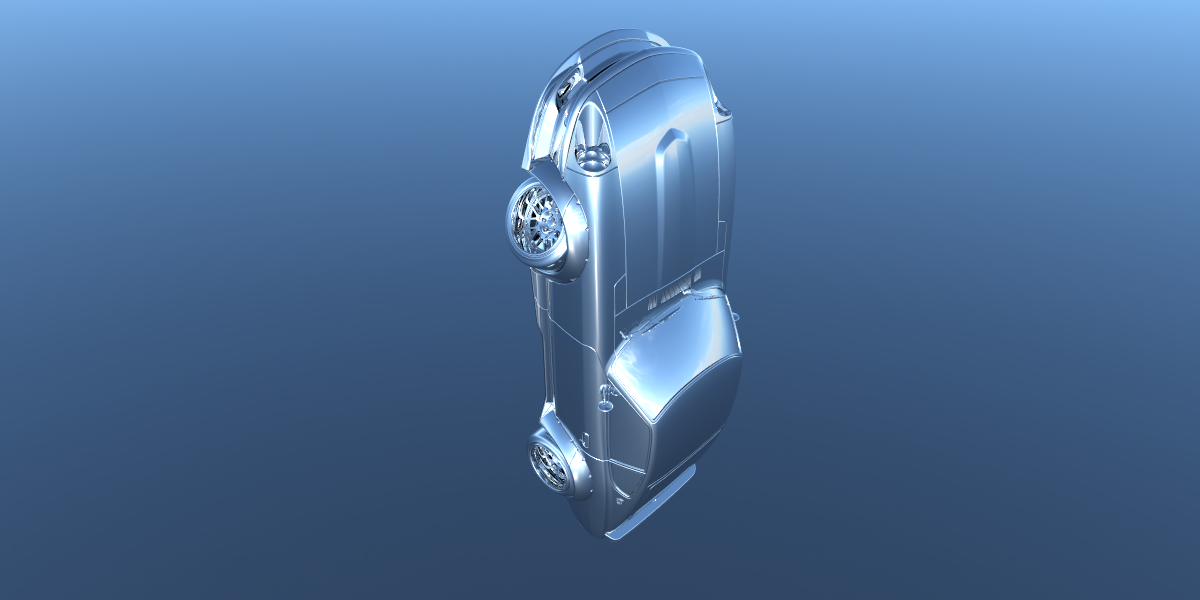
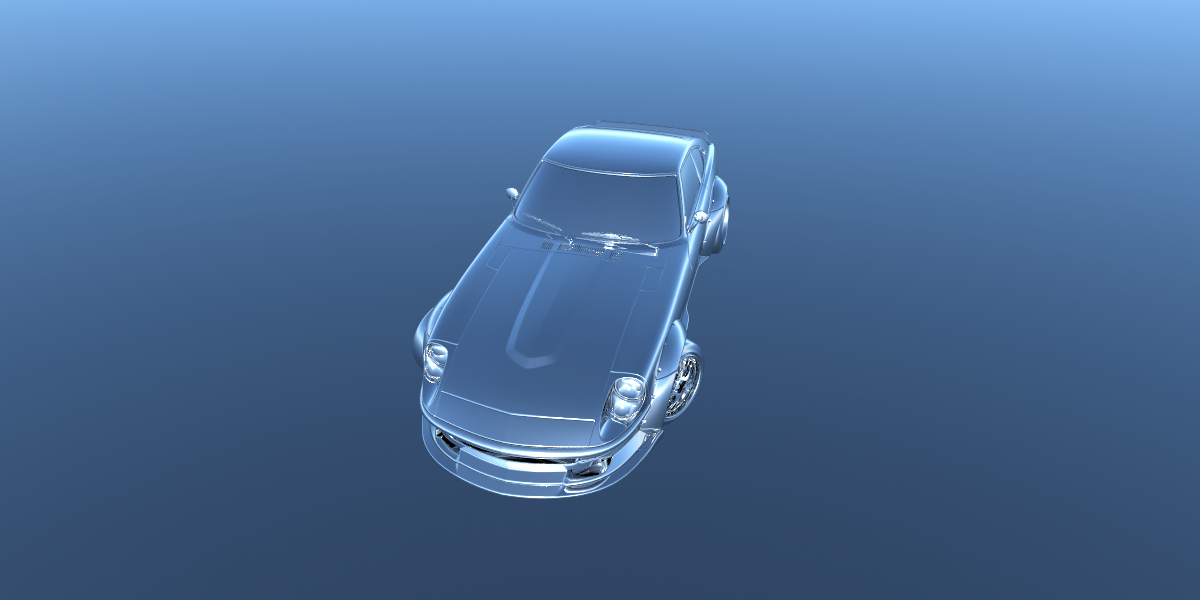
feature: Implement mesh parsing and evaluation in the parser

Changed region(s): [[0.3392, 0.03, 0.6167, 0.9]]

diff --git a/src/tracer/parser/ast.cpp b/src/tracer/parser/ast.cpp
@@ -121,8 +121,15 @@ OceanNode::OceanNode(std::shared_ptr<ASTNode> n, std::shared_ptr<ASTNode> l,
                      std::shared_ptr<ASTNode> a, std::shared_ptr<ASTNode> mat,
                      std::shared_ptr<ASTNode> lam,
                      std::shared_ptr<ASTNode> height)
-    : n_expr(n), l_expr(l), speed_expr(wind_speed), dir_expr(wind_dir),
-      a_expr(a), mat_expr(mat), lambda_expr(lam), height_expr(height) {}
+    : n_expr(std::move(n)), l_expr(std::move(l)),
+      speed_expr(std::move(wind_speed)), dir_expr(std::move(wind_dir)),
+      a_expr(std::move(a)), mat_expr(std::move(mat)),
+      lambda_expr(std::move(lam)), height_expr(std::move(height)) {}
+
+MeshNode::MeshNode(std::shared_ptr<ASTNode> mode_path,
+                   std::shared_ptr<ASTNode> pos, std::shared_ptr<ASTNode> rot)
+    : model_path_expr(std::move(mode_path)), position_expr(std::move(pos)),
+      rot_expr(std::move(rot)) {}
 
 TranslateNode::TranslateNode(std::shared_ptr<ASTNode> object,
                              std::shared_ptr<ASTNode> offset)
@@ -165,7 +172,7 @@ BasicType PipeNode::evaluate(std::shared_ptr<Environment> env) {
     return func.t_lambda.body->evaluate(temp_env);
   }
   throw std::runtime_error(
-      "Left side of '|' must be a lambda expression or a .. expression.");
+      "Left side of '|' must be a lambda expression or a `..` expression.");
 }
 
 BasicType ListNode::evaluate(std::shared_ptr<Environment> env) {
@@ -399,6 +406,7 @@ BasicType BoxNode::evaluate(std::shared_ptr<Environment> env) {
   Vec3 dist = bmax.t_vector3 - bmin.t_vector3;
   std::shared_ptr<hittable> box =
       std::make_shared<geometry::Box>(Vec3(0, 0, 0), dist, mat.t_material);
+  box = std::make_shared<transform::Translate>(box, bmin.t_vector3);
   if (rot_expr) {
     BasicType rot = rot_expr->evaluate(env);
     float x = rot.t_vector3.x();
@@ -411,7 +419,6 @@ BasicType BoxNode::evaluate(std::shared_ptr<Environment> env) {
     if (z != 0.f)
       box = std::make_shared<transform::RotateZ>(box, z);
   }
-  box = std::make_shared<transform::Translate>(box, bmin.t_vector3);
   return BasicType(box);
 }
 
@@ -430,6 +437,7 @@ BasicType HeartNode::evaluate(std::shared_ptr<Environment> env) {
   BasicType mat = material_expr->evaluate(env);
   std::shared_ptr<hittable> heart = std::make_shared<geometry::Heart>(
       Vec3(0, 0, 0), rho.t_float, mat.t_material);
+  heart = std::make_shared<transform::Translate>(heart, center.t_vector3);
   if (rot_expr) {
     BasicType rot = rot_expr->evaluate(env);
     float x = rot.t_vector3.x();
@@ -442,7 +450,6 @@ BasicType HeartNode::evaluate(std::shared_ptr<Environment> env) {
     if (z != 0.f)
       heart = std::make_shared<transform::RotateZ>(heart, z);
   }
-  heart = std::make_shared<transform::Translate>(heart, center.t_vector3);
   return BasicType(heart);
 }
 
@@ -465,6 +472,27 @@ BasicType OceanNode::evaluate(std::shared_ptr<Environment> env) {
   auto simulator = std::make_unique<physics::FFTOcean>(params);
   return BasicType(std::make_shared<geometry::Ocean>(
       &*simulator, mat.t_material, lambda.t_float, height.t_float));
+}
+
+BasicType MeshNode::evaluate(std::shared_ptr<Environment> env) {
+  BasicType model_path = model_path_expr->evaluate(env);
+  BasicType position = position_expr->evaluate(env);
+  obj_parser::Object obj(model_path.t_string);
+  std::shared_ptr<hittable> mesh = obj.take();
+  mesh = std::make_shared<transform::Translate>(mesh, position.t_vector3);
+  if (rot_expr) {
+    BasicType rot = rot_expr->evaluate(env);
+    float x = rot.t_vector3.x();
+    float y = rot.t_vector3.y();
+    float z = rot.t_vector3.z();
+    if (x != 0.f)
+      mesh = std::make_shared<transform::RotateX>(mesh, x);
+    if (y != 0.f)
+      mesh = std::make_shared<transform::RotateY>(mesh, y);
+    if (z != 0.f)
+      mesh = std::make_shared<transform::RotateZ>(mesh, z);
+  }
+  return BasicType(mesh);
 }
 
 BasicType TranslateNode::evaluate(std::shared_ptr<Environment> env) {

diff --git a/src/tracer/parser/parser.cpp b/src/tracer/parser/parser.cpp
@@ -159,6 +159,11 @@ std::shared_ptr<ASTNode> Parser::parse_list() {
   }
 }
 
+std::shared_ptr<ASTNode> Parser::parse_for_expr() {
+  // TODO
+  return nullptr;
+}
+
 std::shared_ptr<ASTNode> Parser::parse_paren_list() {
   std::vector<std::shared_ptr<ASTNode>> list;
   while (peek_token().type != TokenType::RightParen) {
@@ -318,6 +323,21 @@ std::shared_ptr<ASTNode> Parser::parse_ocean() {
   return ocean;
 }
 
+std::shared_ptr<ASTNode> Parser::parse_mesh() {
+  expect_token({TokenType::LeftParen});
+  std::shared_ptr<ASTNode> model_path = parse_expression(Precedence::NONE);
+  std::shared_ptr<ASTNode> position = parse_expression(Precedence::NONE);
+  std::shared_ptr<MeshNode> mesh = nullptr;
+  if (peek_token().type != TokenType::RightParen) {
+    std::shared_ptr<ASTNode> rot = parse_expression(Precedence::NONE);
+    mesh = std::make_shared<MeshNode>(model_path, position, rot);
+  } else {
+    mesh = std::make_shared<MeshNode>(model_path, position, nullptr);
+  }
+  expect_token({TokenType::RightParen});
+  return mesh;
+}
+
 std::shared_ptr<ASTNode> Parser::parse_translate() {
   expect_token({TokenType::LeftParen});
   std::shared_ptr<ASTNode> object = parse_expression(Precedence::NONE);
@@ -435,6 +455,11 @@ std::shared_ptr<ASTNode> Parser::parse_expression(const Precedence &prec) {
     break;
   }
 
+  case TokenType::For: {
+    left = parse_for_expr();
+    break;
+  }
+
   case TokenType::Pair: {
     left = parse_pair();
     break;
@@ -512,6 +537,11 @@ std::shared_ptr<ASTNode> Parser::parse_expression(const Precedence &prec) {
 
   case TokenType::OceanType: {
     left = parse_ocean();
+    break;
+  }
+
+  case TokenType::MeshType: {
+    left = parse_mesh();
     break;
   }
 

diff --git a/tests/test_obj_parser.cpp b/tests/test_obj_parser.cpp
@@ -1,4 +1,6 @@
 #include "tracer/tracer.h"
+#include <chrono>
+#include <iostream>
 
 using namespace tracer;
 
@@ -16,13 +18,28 @@ int main() {
 
   std::shared_ptr<Background> background = std::make_shared<ImageBackground>(
       "../textures/autumn_field_puresky_4k.hdr");
-  obj_parser::Object obj("../models/free-datsun-280z/source/Datsun_280Z.obj");
+  obj_parser::Object obj("../models/free-datsun-280z/Datsun_280Z.obj");
 
-  std::vector<std::shared_ptr<geometry::Mesh>> meshes = obj.take();
-  for (const auto &mesh : meshes) {
-    mesh->finalize();
-    world.add(mesh);
-  }
+  std::shared_ptr<geometry::Mesh> mesh = obj.take();
+  size_t vn = mesh->indices.size();
+  std::cout << "模型顶点个数: " << vn << ", 面数量: " << vn / 3 << std::endl;
+  std::cout << "[Build] 开始构建 BVH ..." << std::endl;
+  auto start_time = std::chrono::high_resolution_clock::now();
+
+  mesh->finalize();
+  auto car = std::make_shared<transform::RotateZ>(
+      std::make_shared<transform::RotateX>(
+          std::make_shared<transform::Translate>(mesh, Vec3(0.f, 0.f, 0.f)),
+          -90.f),
+      -120.f);
+  world.add(car);
+
+  auto end_time = std::chrono::high_resolution_clock::now();
+  std::cout << "[Build] BVH 构建完毕！用时: "
+            << std::chrono::duration_cast<std::chrono::seconds>(end_time -
+                                                                start_time)
+                   .count()
+            << " s" << std::endl;
 
   auto sun_mat =
       std::make_shared<material::DiffuseLight>(Vec3(15.0f, 15.0f, 15.0f));

diff --git a/include/tracer/parser/ast.h b/include/tracer/parser/ast.h
@@ -12,6 +12,7 @@
 #include "tracer/material/metal.h"
 #include "tracer/material/water.h"
 #include "tracer/math/vec3.h"
+#include "tracer/obj_parser/factory.h"
 #include "tracer/texture/image_texture.h"
 #include "tracer/transform/rotate.h"
 #include "tracer/transform/translate.h"
@@ -19,6 +20,7 @@
 #include <string>
 #include <unordered_map>
 #include <vector>
+
 
 namespace tracer {
 namespace parser {
@@ -415,6 +417,17 @@ public:
             std::shared_ptr<ASTNode>, std::shared_ptr<ASTNode>,
             std::shared_ptr<ASTNode>, std::shared_ptr<ASTNode>,
             std::shared_ptr<ASTNode>, std::shared_ptr<ASTNode>);
+
+  virtual BasicType evaluate(std::shared_ptr<Environment> env) override;
+};
+
+class MeshNode : public ASTNode {
+private:
+  std::shared_ptr<ASTNode> model_path_expr, position_expr, rot_expr;
+
+public:
+  MeshNode(std::shared_ptr<ASTNode>, std::shared_ptr<ASTNode>,
+           std::shared_ptr<ASTNode>);
 
   virtual BasicType evaluate(std::shared_ptr<Environment> env) override;
 };

diff --git a/src/tracer/obj_parser/factory.cpp b/src/tracer/obj_parser/factory.cpp
@@ -45,6 +45,8 @@ void Object::builder() {
 
   std::unordered_map<std::string, uint32_t> mat_map;
 
+  Value value;
+  value.v_mesh = std::make_unique<geometry::Mesh>();
   uint32_t m_idx = 0;
   for (const auto &mesh_node : o_parser.meshes) {
 
@@ -54,8 +56,6 @@ void Object::builder() {
       mat_map[mtl_value.v_mat_name] = m_idx++;
     }
 
-    Value value;
-    value.v_mesh = std::make_unique<geometry::Mesh>();
     for (const auto &mtl : mtl_value.v_params) {
       // Ns（光泽度） 转粗糙度公式
       float roughness = std::sqrt(2.0f / (mtl.Ns + 2.0f));
@@ -134,13 +134,11 @@ void Object::builder() {
         }
       }
     }
-    meshes.push_back(std::move(value.v_mesh));
   }
+  mesh = std::move(value.v_mesh);
 }
 
-std::vector<std::shared_ptr<geometry::Mesh>> Object::take() {
-  return std::move(meshes);
-}
+std::shared_ptr<geometry::Mesh> Object::take() { return std::move(mesh); }
 
 } // namespace obj_parser
 } // namespace tracer

diff --git a/include/tracer/parser/token.h b/include/tracer/parser/token.h
@@ -29,6 +29,7 @@ enum class TokenType {
   SphereType,
   HeartType,
   OceanType,
+  MeshType,
   TranslateType,
   ConstantMediumType,
   CameraType,
@@ -59,6 +60,10 @@ enum class TokenType {
   Mul,
   Div,
   Mod,
+
+  If,
+  Else,
+  For,
 
   LiteralStr,
 

diff --git a/include/tracer/obj_parser/factory.h b/include/tracer/obj_parser/factory.h
@@ -16,13 +16,13 @@ public:
   Object() {}
   Object(const std::string &);
 
-  std::vector<std::shared_ptr<geometry::Mesh>> take();
+  std::shared_ptr<geometry::Mesh> take();
 
 private:
   std::string source;
   ObjParser o_parser;
   ObjParser mtl_parser;
-  std::vector<std::shared_ptr<geometry::Mesh>> meshes;
+  std::shared_ptr<geometry::Mesh> mesh;
 
   void builder();
 };

diff --git a/src/tracer/parser/lexer.cpp b/src/tracer/parser/lexer.cpp
@@ -4,6 +4,9 @@ namespace tracer {
 namespace parser {
 
 Lexer::Lexer(const std::string &src) : source(src) {
+  reserved["if"] = TokenType::If;
+  reserved["else"] = TokenType::Else;
+  reserved["for"] = TokenType::For;
   reserved["Num"] = TokenType::NumberType;
   reserved["String"] = TokenType::String;
   reserved["List"] = TokenType::List;
@@ -23,6 +26,7 @@ Lexer::Lexer(const std::string &src) : source(src) {
   reserved["Sphere"] = TokenType::SphereType;
   reserved["Heart"] = TokenType::HeartType;
   reserved["Ocean"] = TokenType::OceanType;
+  reserved["Mesh"] = TokenType::MeshType;
   reserved["Translate"] = TokenType::TranslateType;
   reserved["ConstMedium"] = TokenType::ConstantMediumType;
   reserved["Camera"] = TokenType::CameraType;

diff --git a/include/tracer/parser/parser.h b/include/tracer/parser/parser.h
@@ -32,6 +32,7 @@ private:
   std::shared_ptr<ASTNode> parse_random();
   std::shared_ptr<ASTNode> parse_string(const std::string_view &);
   std::shared_ptr<ASTNode> parse_list();
+  std::shared_ptr<ASTNode> parse_for_expr();
   std::shared_ptr<ASTNode> parse_paren_list();
   std::shared_ptr<ASTNode> parse_lambertian();
   std::shared_ptr<ASTNode> parse_metal();
@@ -45,6 +46,7 @@ private:
   std::shared_ptr<ASTNode> parse_sphere();
   std::shared_ptr<ASTNode> parse_heart();
   std::shared_ptr<ASTNode> parse_ocean();
+  std::shared_ptr<ASTNode> parse_mesh();
   std::shared_ptr<ASTNode> parse_translate();
   std::shared_ptr<ASTNode> parse_constant_medium();
   std::shared_ptr<ASTNode> parse_camera();